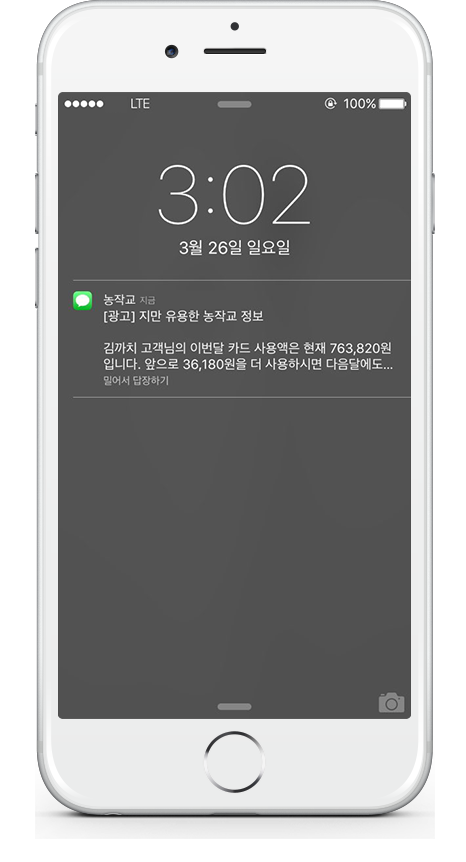
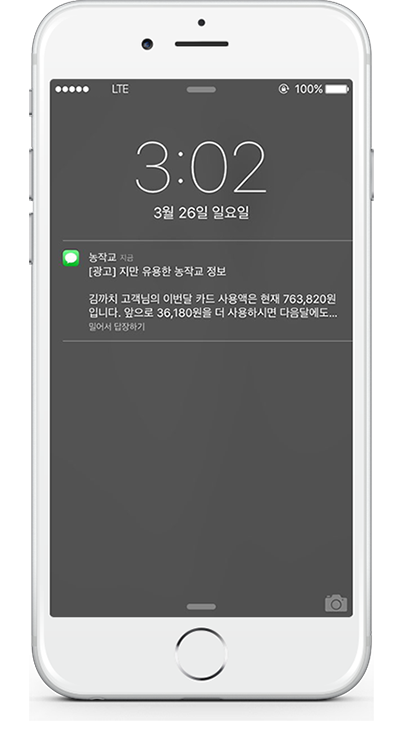
html,css modified

diff --git a/css/olley_161202.css b/css/olley_161202.css
@@ -1462,15 +1462,15 @@ div.icon_progress{
 
 #iphone_bg{
     width:100%;
-    /*height:100vh;*/
-		margin-top: 70px;
+    height:850px;
+    margin-top: 60px;
     background: linear-gradient(to bottom right,#8dc63f,#009444,#009444,#8dc63f);
     background-size: 500% 500%;
 }
 
 @keyframes iphone {
-    0%{margin-top:1000px;}
-    100%{margin-top:30px;}
+    0%{margin-top:200px; opacity: 0;}
+    100%{margin-top:100px; opacity: 1;}
 }
 @keyframes marketing {
     0%{opacity: 0;}
@@ -1478,10 +1478,11 @@ div.icon_progress{
 }
 
 #iphone_bg img{
-    margin-top:30px;
+    margin-top:100px;
     margin-right:400px;
     -webkit-animation: iphone 1.5s ease-out;
     animation: iphone 1.5s ease-out;
+    opacity: 1;
 }
 #iphone_bg h2{
     position:absolute;
@@ -1499,13 +1500,15 @@ div.icon_progress{
 
 #iphone_bg2{
     width:100%;
-    /*height:100vh;*/
+    height:850px;
+    margin-top: 60px;
     background: linear-gradient(to bottom right,#8dc63f,#009444,#009444,#8dc63f);
     background-size: 500% 500%;
 }
 #iphone_bg2 img{
-    margin-top:70px;
+    margin-top:100px;
     margin-right:400px;
+    opacity: 1;
 }
 #iphone_bg2 h2{
     position:absolute;

diff --git a/html/order_done.html b/html/order_done.html
@@ -21,12 +21,11 @@
 							<tr>
 								<th>참여 프로젝트</th>
 								<td>참여 프로젝트 이름</td>
-								<td class="date">2017. 03. 01 ~ 2017. 03. 30</td>
+								<td class="date">2017. 03. 01 ~ 2017. 03. 31</td>
 							</tr>
 							<tr>
 								<th>선택리워드</th>
-								<td>1건</td>
-								<td class="reward"><span class="reward">리워드1.</span>응원의 마음으로 순수 UP! ({{ vm.amount }}원)</td>
+								<td class="reward"><span class="reward">리워드1.</span>깊은 단맛의 반디마을 유기농 배추밭 1평 ({{ vm.amount }}원)</td>
 							</tr>
 							<tr>
 								<th>총 결제 금액</th>
@@ -44,7 +43,7 @@
 								<th>배송지정보</th>
 								<td class="name">홍길동</td>
 								<td class="phoneN">010-1234-5678</td>
-								<td class="adress">서울시 강남구 언주로 148길 27 정은빌딩 4층</td>
+								<td class="adress">서울시 영등포구 국제금융로 10, Three IFC 18층</td>
 							</tr>
 						</tbody>
 					</table>
